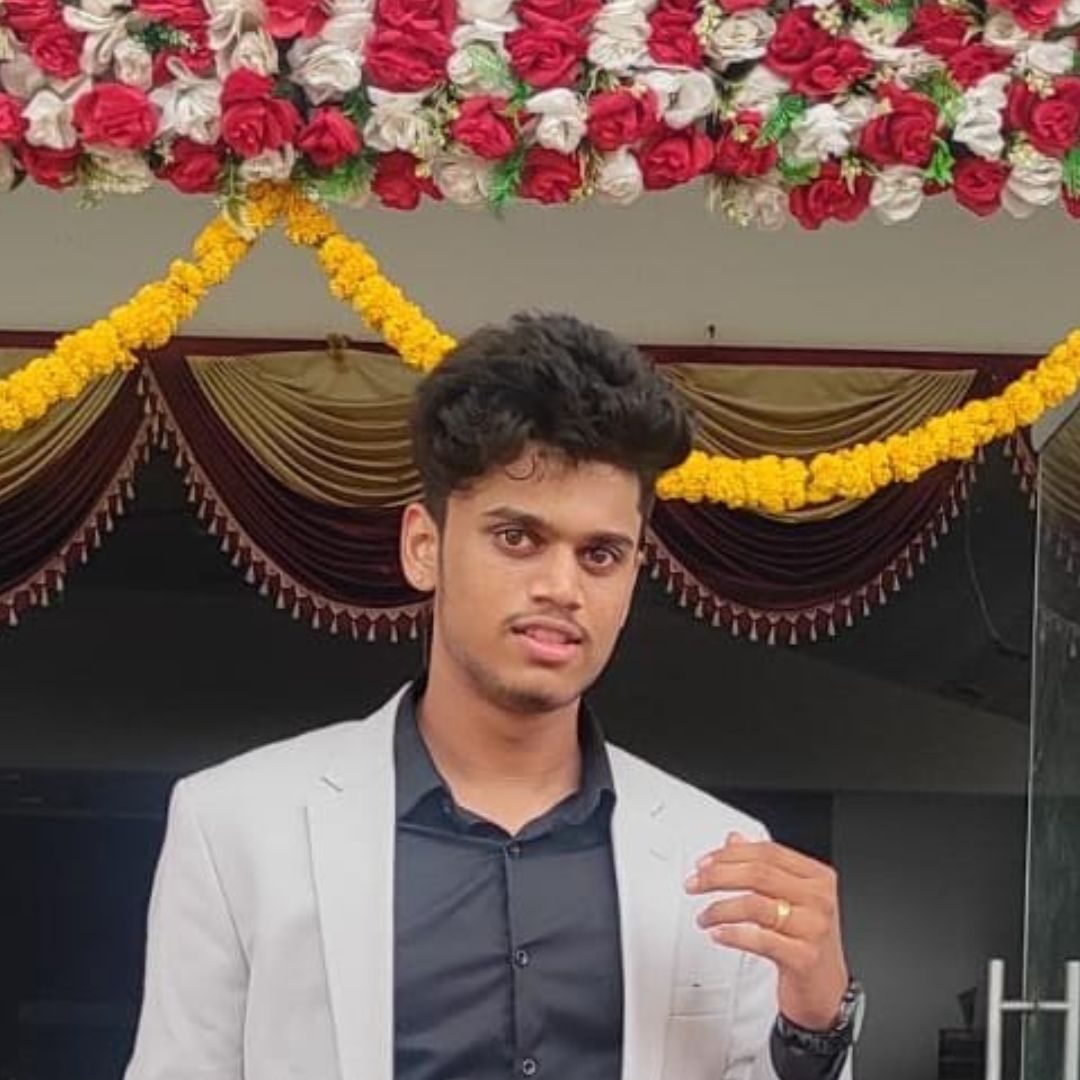
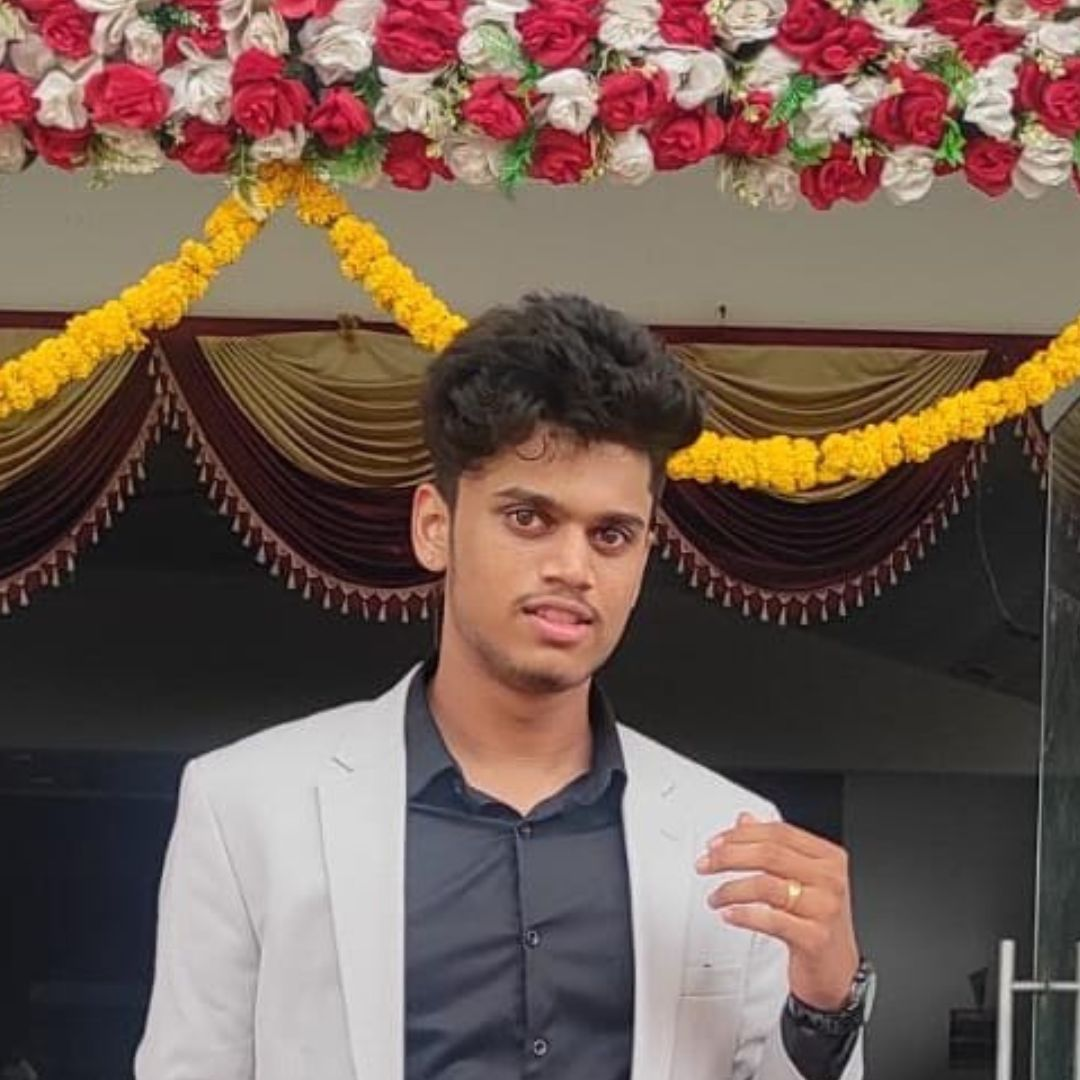
fix: images, team info

diff --git a/src/pages/team/index.tsx b/src/pages/team/index.tsx
@@ -34,16 +34,16 @@ const TeamMembers = [
   {
     name: 'Swasthik Shetty',
     role: 'Technical Head | Full Stack Developer',
-    image: '/team/swasthik.jpg',
+    image: '/team/swasthik.jpeg',
     github: 'swasthikshetty10',
     linkedin: 'swasthikshetty10',
     instagram: 'https://youtu.be/_3wkyerSBpw',
-    quote: `I'm Gay`,
+    quote: ``,
   },
   {
     name: 'Nagaraj Pandith',
     role: 'Frontend Lead | Developer',
-    image: '/team/swasthik.jpg',
+    image: '/team/nagaraj.jpg',
     github: 'nagarajpandith',
     linkedin: 'nagaraj-pandith',
     instagram: 'nagarajpandithh',
@@ -53,7 +53,7 @@ const TeamMembers = [
   {
     name: 'Prayag Sharma',
     role: 'Technical Head | Management',
-    image: '/team/swasthik.jpg',
+    image: '/team/prayag.jpg',
     github: 'prg2308',
     linkedin: 'prg2308',
     instagram: 'prg2308',
@@ -62,11 +62,11 @@ const TeamMembers = [
   {
     name: 'Numan Naeem',
     role: 'UI Lead | Developer',
-    image: '/team/swasthik.jpg',
+    image: '/team/numan.jpg',
     github: 'numannaeem',
     linkedin: 'numxn',
     instagram: 'num4n_',
-    quote: '',
+    quote: 'Naatil evdeya?',
   },
   {
     name: 'Satvik Nayak',
@@ -80,7 +80,7 @@ const TeamMembers = [
   {
     name: 'Aaron Nazareth',
     role: 'Backend Developer',
-    image: '/team/swasthik.jpg',
+    image: '/team/aaron.jpg',
     github: 'jevil25',
     linkedin: 'aaron-nazareth-6580311b6',
     instagram: 'aaron_naz25',
@@ -89,7 +89,7 @@ const TeamMembers = [
   {
     name: 'Keerthan N S',
     role: 'Frontend Developer',
-    image: '/team/swasthik.jpg',
+    image: '/team/keerthan.jpg',
     github: 'keerthan2002',
     linkedin: 'keerthan-n-s-220142208',
     instagram: 'keerthan_ns',
@@ -107,7 +107,7 @@ const TeamMembers = [
   {
     name: 'Padmashree Shetty',
     role: 'Backend Developer',
-    image: '/team/swasthik.jpg',
+    image: '/team/padmashree.jpg',
     github: 'padmashreeshetty123',
     linkedin: 'padmashree-shetty-1298b2228',
     instagram: 'padmashree_shetty1',

diff --git a/src/components/pages/about/TeamCard.tsx b/src/components/pages/about/TeamCard.tsx
@@ -20,7 +20,7 @@ const TeamCard: FC<{
       <div className="h-72">
         <Image
           src={image}
-          alt="Incridea Banner"
+          alt={name}
           width={250}
           height={250}
           className="rounded-md w-full h-full object-cover"
